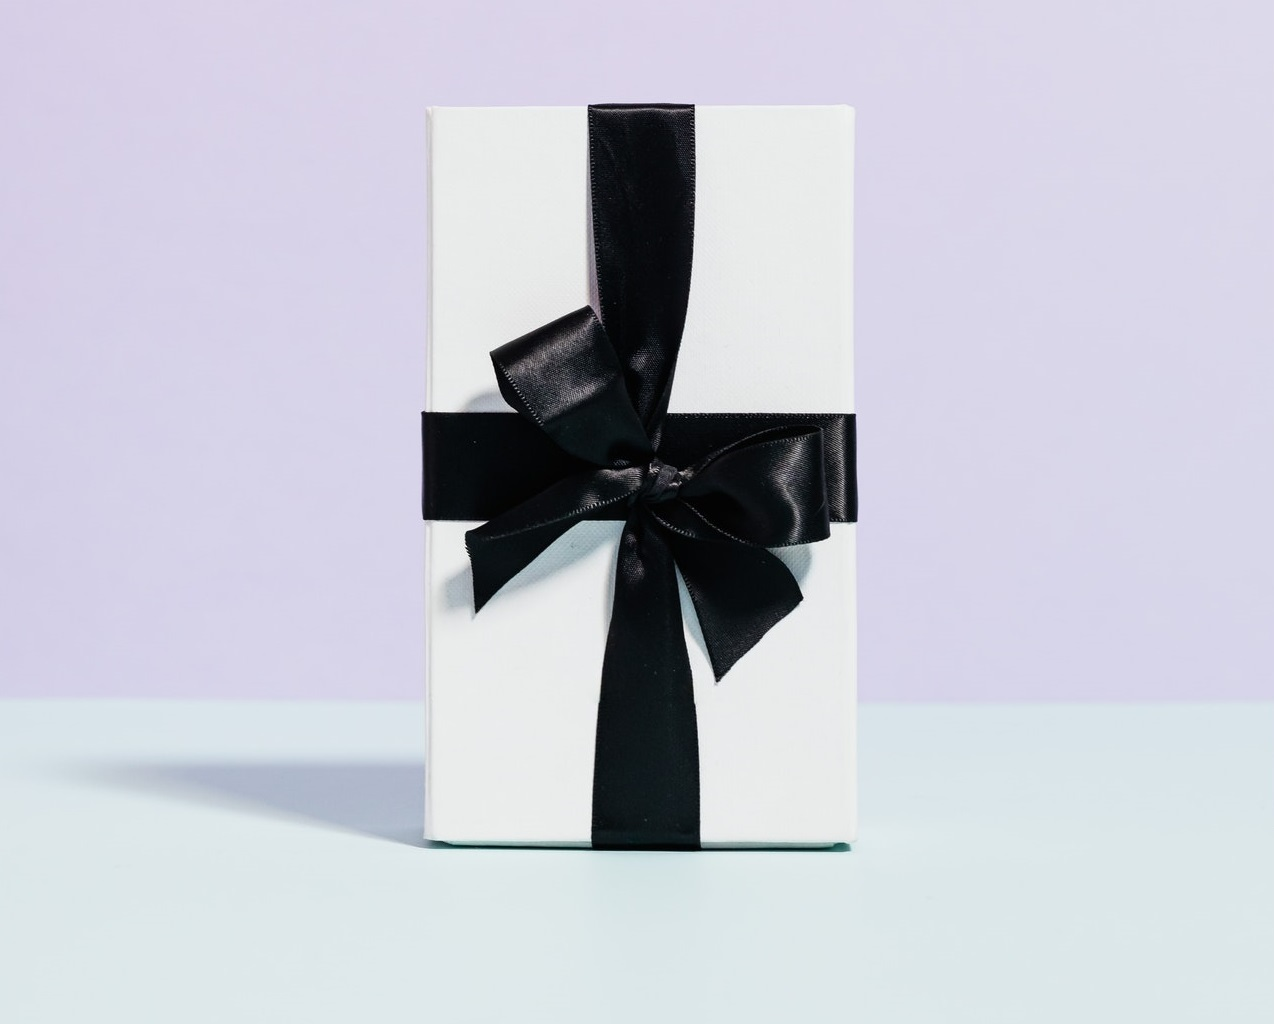
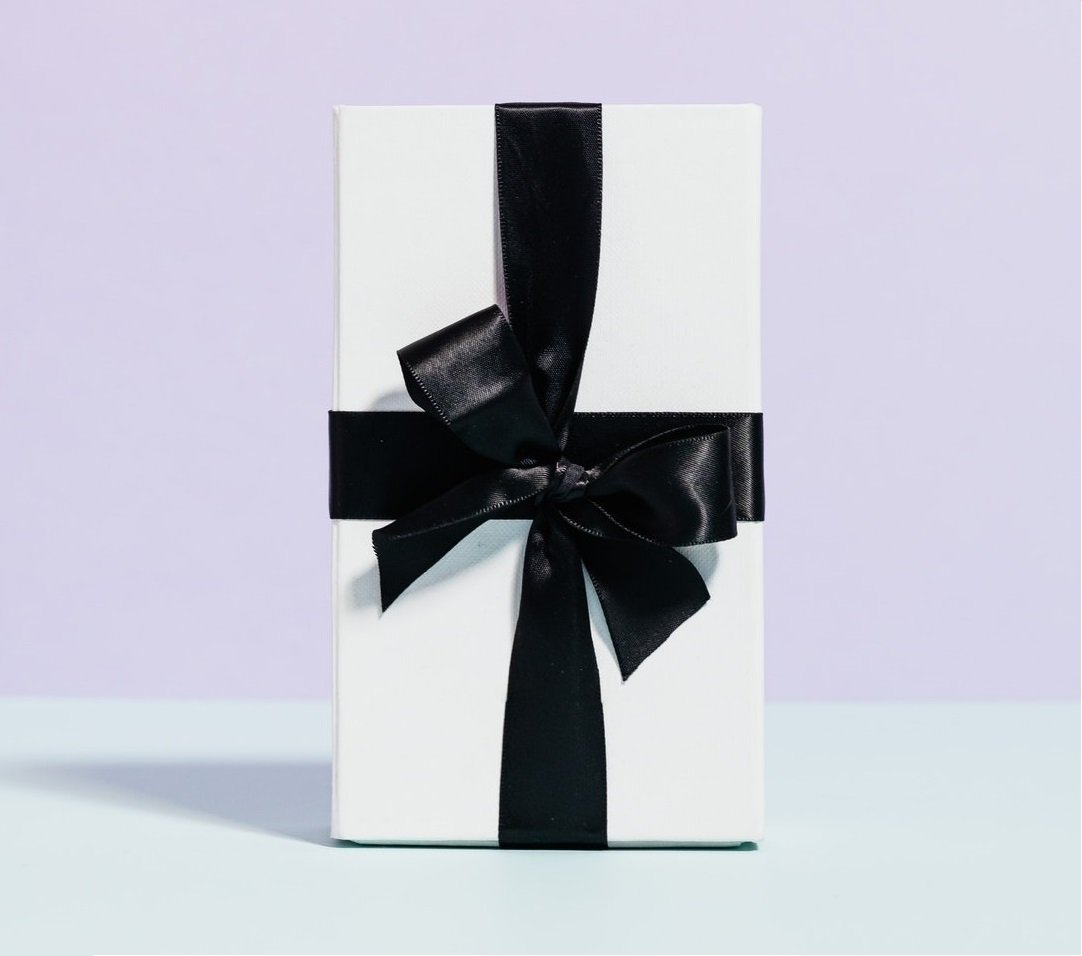
1. thumbnail 정사각형으로 수정. thumbnail image 이미지내 상하좌우 여백 수정 2. question page prev_btn 이미지 수정.

Changed region(s): [[0.0, 0.091, 0.732, 0.91], [0.6405, 0.091, 0.7015, 0.182], [0.366, 0.091, 0.3965, 0.1213]]

diff --git a/public/style/main.css b/public/style/main.css
@@ -1,1 +1,360 @@
-html{height:100%}body{height:100%;margin:0;padding:0;font-family:'serif',sans-serif}header{width:100vw;height:35px;margin:0 auto;background-color:#6f1742}header:hover{cursor:pointer}header>p.title_logo{width:100vw;height:100%;line-height:35px;text-align:center;color:#fff;font-weight:bold;margin:0}div.content_wrap{display:flex;flex-direction:column;width:500px;margin:0 auto}div.container{box-sizing:border-box;position:relative;padding:0}article{display:flex;flex-direction:column}article.start{height:calc(100vh - 205px);padding:0 30px}article.start>h1{font-size:1.7rem;font-weight:bold}article.start>div.thumbnail_box{width:100%;overflow:hidden;margin:0 auto}article.start>div.thumbnail_box>img{width:100%;height:100%;object-fit:contain}article.start>button.start_btn{background-color:#6f1742;font-weight:800;width:100%;height:60px;border:0;border-radius:0;outline:0;margin-top:100px}article.start>button.start_btn:hover{background-color:#54297f}article.question>div.progress{border-radius:0;height:10px;background-color:bisque;border-radius:10px;margin-top:30px}article.question>div.progress>div.progress-bar{transition:.6s ease;background-color:#6f1742}article.question{display:none;opacity:0;width:100%;height:calc(100vh - 85px);transition:all 1.15s;background-image:linear-gradient(rgba(0,0,0,0.5),rgba(0,0,0,0.7)),url(images/mbti_question/mbti_1.jpg);background-size:cover;background-repeat:no-repeat;background-position:50%}article.question.loading_block{display:block;opacity:0}article.question.act{display:block;opacity:1}article.question>div.question_box{display:flex;height:300px;align-items:center;flex-direction:column;transition:1.5s;opacity:0}article.question>div.question_box>p.progress_num{font-weight:bold;color:#fff;font-size:1.2rem;word-spacing:2px;height:100px;line-height:100px}article.question>div.question_box>h2#title{margin:0 auto;font-size:1.1rem;font-weight:bold;color:#fff;line-height:160%}article.question>fieldset.question_btn_wrap{transition:1.5s;opacity:0}div.img_box{width:300px;height:300px;background-color:#000;overflow:hidden;margin:0 auto}div.img_box>#question_img{width:100%;height:100%;object-fit:cover}article.question>fieldset{display:flex;flex-direction:column;justify-content:center;width:100%}button.question_btn{width:80%;height:80px;border:2px solid #fff;border-radius:10px;font-size:14px;outline:0;cursor:pointer;margin:0 auto;color:#fff;background-color:rgba(0,0,0,0.7);font-weight:bold;text-align:center;display:flex;justify-content:center;align-items:center}button.question_btn:last-of-type{margin-top:20px}button.prev_btn{width:64px;height:64px;background-image:url(../images/icons/left_arrow.png);border:2px solid #fff;border-radius:50%;background-color:rgba(0,0,0,0.7);background-size:cover;margin:0 auto;margin-top:50px;outline:0;transition:1.5s}footer{display:flex!important;flex-direction:column;justify-content:center;width:100%;height:60px;margin:0 auto;padding:50px 0}footer>#email{color:#6F1742!important;font-weight:bold;margin:0;text-align:center;font-size:1rem}footer>a:hover{text-decoration:none;color:#54297f!important}footer>small{text-align:center;color:#6F1742!important;font-size:.7rem}footer.hide{display:none!important;width:100%;height:0}footer.hide>*{color:transparent}div.kakao_ad{height:50px}@media screen and (max-width:768px){div.content_wrap{width:100vw}header:hover{cursor:auto}article.start>h1{font-size:5vw;font-weight:bold}article.start>button{font-weight:800;height:50px;margin-top:100px}button.question_btn{font-size:.8rem}article.loading>div.wave span{font-size:1.5rem}.banner{display:flex;justify-content:center;width:100%;margin:0 auto}.banner-img{width:50vw;margin:0 auto}footer>a{font-size:.9rem}footer>small{font-size:.75rem}}@media screen and (max-width:300px){div.container{width:100vw;margin:0;padding:0}header:hover{cursor:auto}article.start>h1{font-size:5vw;font-weight:bold}article.start>button.start_btn{font-weight:800;width:80%;height:40px;margin:0 auto;margin-top:100px}article.question>div.question_box>h2#title{font-size:1rem}.banner{display:flex;justify-content:center;width:80vw;margin:0 auto}.banner-img{width:80vw}footer>a{font-size:.8rem}footer>small{font-size:.5rem}}
+html {
+    height: 100%
+}
+
+body {
+    height: 100%;
+    margin: 0;
+    padding: 0;
+    font-family: 'serif', sans-serif
+}
+
+header {
+    width: 100vw;
+    height: 35px;
+    margin: 0 auto;
+    background-color: #6f1742
+}
+
+header:hover {
+    cursor: pointer
+}
+
+header>p.title_logo {
+    width: 100vw;
+    height: 100%;
+    line-height: 35px;
+    text-align: center;
+    color: #fff;
+    font-weight: bold;
+    margin: 0
+}
+
+div.content_wrap {
+    display: flex;
+    flex-direction: column;
+    width: 500px;
+    margin: 0 auto
+}
+
+div.container {
+    box-sizing: border-box;
+    position: relative;
+    padding: 0
+}
+
+article {
+    display: flex;
+    flex-direction: column
+}
+
+article.start {
+    height: calc(100vh - 185px);
+    padding: 0 30px
+}
+
+article.start>h1 {
+    font-size: 1.7rem;
+    font-weight: bold
+}
+
+article.start>div.thumbnail_box {
+    width: 100%;
+    overflow: hidden;
+    margin: 0 auto;
+    position: relative;
+}
+
+article.start>div.thumbnail_box:after {
+    content: "";
+    display: block;
+    padding-bottom: 100%;
+}
+
+
+article.start>div.thumbnail_box>img {
+    position: absolute;
+    width: 100%;
+    height: 100%;
+    object-fit: cover;
+}
+
+article.start>button.start_btn {
+    background-color: #6f1742;
+    font-weight: 800;
+    width: 100%;
+    height: 60px;
+    border: 0;
+    border-radius: 0;
+    outline: 0;
+    margin-top: 100px
+}
+
+article.start>button.start_btn:hover {
+    background-color: #54297f
+}
+
+article.question>div.progress {
+    border-radius: 0;
+    height: 10px;
+    background-color: bisque;
+    border-radius: 10px;
+    margin-top: 30px
+}
+
+article.question>div.progress>div.progress-bar {
+    transition: .6s ease;
+    background-color: #6f1742
+}
+
+article.question {
+    display: none;
+    opacity: 0;
+    width: 100%;
+    height: calc(100vh - 85px);
+    transition: all 1.15s;
+    background-image: linear-gradient(rgba(0, 0, 0, 0.5), rgba(0, 0, 0, 0.7)), url(images/mbti_question/mbti_1.jpg);
+    background-size: cover;
+    background-repeat: no-repeat;
+    background-position: 50%
+}
+
+article.question.loading_block {
+    display: block;
+    opacity: 0
+}
+
+article.question.act {
+    display: block;
+    opacity: 1
+}
+
+article.question>div.question_box {
+    display: flex;
+    height: 300px;
+    align-items: center;
+    flex-direction: column;
+    transition: 1.5s;
+    opacity: 0
+}
+
+article.question>div.question_box>p.progress_num {
+    font-weight: bold;
+    color: #fff;
+    font-size: 1.2rem;
+    word-spacing: 2px;
+    height: 100px;
+    line-height: 100px
+}
+
+article.question>div.question_box>h2#title {
+    margin: 0 auto;
+    font-size: 1.1rem;
+    font-weight: bold;
+    color: #fff;
+    line-height: 160%
+}
+
+article.question>fieldset.question_btn_wrap {
+    transition: 1.5s;
+    opacity: 0
+}
+
+div.img_box {
+    width: 300px;
+    height: 300px;
+    background-color: #000;
+    overflow: hidden;
+    margin: 0 auto
+}
+
+div.img_box>#question_img {
+    width: 100%;
+    height: 100%;
+    object-fit: cover
+}
+
+article.question>fieldset {
+    display: flex;
+    flex-direction: column;
+    justify-content: center;
+    width: 100%
+}
+
+button.question_btn {
+    width: 80%;
+    height: 80px;
+    border: 2px solid #fff;
+    border-radius: 10px;
+    font-size: 14px;
+    outline: 0;
+    cursor: pointer;
+    margin: 0 auto;
+    color: #fff;
+    background-color: rgba(0, 0, 0, 0.7);
+    font-weight: bold;
+    text-align: center;
+    display: flex;
+    justify-content: center;
+    align-items: center
+}
+
+button.question_btn:last-of-type {
+    margin-top: 20px
+}
+
+button.prev_btn {
+    width: 64px;
+    height: 64px;
+    background-image: url(../images/icons/prev_btn.png);
+    /* border: 2px solid #ffffff; */
+    border-radius: 50%;
+    opacity: 0.5;
+    background-size: cover;
+    background-repeat: no-repeat;
+    /* background-position: 50% 50%; */
+    margin: 0 auto;
+    margin-top: 50px;
+    outline: 0;
+    transition: 1.5s
+}
+
+footer {
+    display: flex !important;
+    flex-direction: column;
+    justify-content: center;
+    width: 100%;
+    height: 60px;
+    margin: 0 auto;
+    padding: 50px 0
+}
+
+footer>#email {
+    color: #6F1742 !important;
+    font-weight: bold;
+    margin: 0;
+    text-align: center;
+    font-size: 1rem
+}
+
+footer>a:hover {
+    text-decoration: none;
+    color: #54297f !important
+}
+
+footer>small {
+    text-align: center;
+    color: #6F1742 !important;
+    font-size: .7rem
+}
+
+footer.hide {
+    display: none !important;
+    width: 100%;
+    height: 0
+}
+
+footer.hide>* {
+    color: transparent
+}
+
+div.kakao_ad {
+    height: 50px
+}
+
+@media screen and (max-width:768px) {
+    div.content_wrap {
+        width: 100vw
+    }
+
+    header:hover {
+        cursor: auto
+    }
+
+    article.start>h1 {
+        font-size: 5vw;
+        font-weight: bold
+    }
+
+    article.start>button {
+        font-weight: 800;
+        height: 50px;
+        margin-top: 100px
+    }
+
+    button.question_btn {
+        font-size: .8rem
+    }
+
+    article.loading>div.wave span {
+        font-size: 1.5rem
+    }
+
+    .banner {
+        display: flex;
+        justify-content: center;
+        width: 100%;
+        margin: 0 auto
+    }
+
+    .banner-img {
+        width: 50vw;
+        margin: 0 auto
+    }
+
+    footer>a {
+        font-size: .9rem
+    }
+
+    footer>small {
+        font-size: .75rem
+    }
+}
+
+@media screen and (max-width:300px) {
+    div.container {
+        width: 100vw;
+        margin: 0;
+        padding: 0
+    }
+
+    header:hover {
+        cursor: auto
+    }
+
+    article.start>h1 {
+        font-size: 5vw;
+        font-weight: bold
+    }
+
+    article.start>button.start_btn {
+        font-weight: 800;
+        width: 80%;
+        height: 40px;
+        margin: 0 auto;
+        margin-top: 100px
+    }
+
+    article.question>div.question_box>h2#title {
+        font-size: 1rem
+    }
+
+    .banner {
+        display: flex;
+        justify-content: center;
+        width: 80vw;
+        margin: 0 auto
+    }
+
+    .banner-img {
+        width: 80vw
+    }
+
+    footer>a {
+        font-size: .8rem
+    }
+
+    footer>small {
+        font-size: .5rem
+    }
+}
